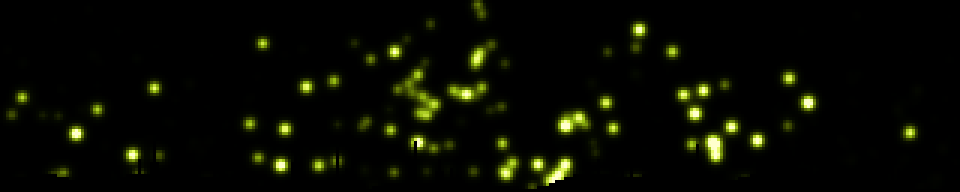
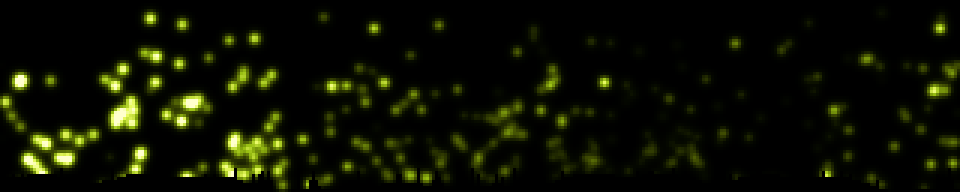
demos: fix the fireflies grass, and document the eight new effects
The grass silhouette was reported from the wall as an unexplained black mask.
It was about W/14 blades reaching a third of the way up the panel, so at 64
rows each was a two-pixel-wide, nineteen-pixel-tall black column -- which does
not read as a blade of grass, it reads as a fault in the display. Four times as
many at half the height gives a dense ragged fringe that does read, with the
cap dropped from a third of the panel to under a fifth. Median silhouette is
now 6 px against a 64 px panel.

Also adds gallery entries for laser, printer, knit, wheel, sunset, grove,
goldengate and karl, each recording the thing that is not obvious from the
code: why laser's cooling is a half-life in seconds rather than per frame, why
printer's spaghetti needs one clock shared by the strand, why grove samples
bark at arcsin of the normalised x, why goldengate's cable vertex sits on the
deck, and that broadcasting (H,W,1) against (H,W,3) is four times slower on
this hardware than doing the arithmetic three times.

diff --git a/demos/fireflies.py b/demos/fireflies.py
@@ -117,14 +117,21 @@ def _grass(W, H, rng):
             + 0.022 * H * np.sin(x * 0.091 + 2.1)
             + 0.015 * H * np.sin(x * 0.213 + 4.4))
     height = np.maximum(base, 1.0)
-    for _ in range(max(3, W // 14)):          # blades standing proud of the mass
+    # Blades standing proud of the mass. They have to be short and numerous.
+    # It was tried the other way first: about W/14 of them reaching a third of
+    # the way up the panel. At 64 rows a two-pixel-wide, nineteen-pixel-tall
+    # black column does not read as a blade of grass, it reads as a fault in
+    # the display -- which is exactly how it was reported from the wall. What
+    # does read is a dense ragged fringe, so there are now four times as many
+    # at half the height, capped under a fifth of the panel.
+    for _ in range(max(8, W // 4)):
         c = int(rng.integers(0, W))
-        tall = float(rng.uniform(0.14, 0.30)) * H
+        tall = float(rng.uniform(0.07, 0.15)) * H
         span = int(rng.integers(0, 2))
         for d in range(-span, span + 1):
             height[(c + d) % W] = max(height[(c + d) % W],
                                       tall * (1.0 - 0.35 * abs(d)))
-    return np.minimum(height, 0.34 * H).astype(np.int32)
+    return np.minimum(height, 0.19 * H).astype(np.int32)
 
 
 def build(args):

diff --git a/demos/README.md b/demos/README.md
@@ -109,6 +109,198 @@ the effect was cheap enough for hardware that could not multiply quickly.
 $ python3 rotozoom.py --texture xor --spin 0.35 --zoom-min 0.4
 ```
 
+### laser
+
+![laser](screenshots/laser.png)
+
+A laser cutter working through a job: a searing head tracing a vector path,
+the kerf cooling behind it, and the piece dropping out when the outline
+closes.
+
+One scalar heat field carries all of it — the head writes 1.0 along the arc it
+covered this frame, the field decays, and a black→red→orange→white ramp turns
+it into kerf, trail and head bloom together. Cooling is a half-life in
+*seconds* rather than a per-frame factor, so the trail is the same length in
+wall time whether the demo runs at 8 fps or 30.
+
+Paths are generated — gears, finger-jointed panels, filigree, slot lettering —
+cut holes first, outline last, with dark rapid moves between contours and the
+head stepping in arc length so corners do not speed up.
+
+Heat alone cannot tell what belongs to the part, since lettering cut ten
+seconds ago has already decayed out of the ramp, so a per-job cut mask relights
+the whole piece for the second it takes to fall.
+
+```console
+$ python3 laser.py --cool 2.0 --shapes gear,filigree
+```
+
+### printer
+
+![printer](screenshots/printer.png)
+
+A 3D printer seen side-on: gantry climbing a row per layer, nozzle glowing,
+part rising with visible infill — and sometimes failing into spaghetti.
+
+Silhouettes are functions of normalised coordinates rather than sprites, so
+they rasterise to whatever height the panel gives. Each layer is classified
+into perimeter, skin and infill, and only the infill stencil is drawn, which is
+why the cross-section is a lattice rather than a filled outline.
+
+Failure is two independent draws per print — whether, and then independently
+where, anywhere from 8% to 94% of the way up. Over 148 prints that gave 29.7%
+failures spread evenly across the height; an early failure leaves nothing but
+nest, a late one leaves a near-complete part with strands draped over it.
+
+The spaghetti took three attempts. The coil phase has to come off one clock
+shared by the whole strand: sampled per point it is confetti, and tied to
+emission rate it is a smooth rope. Only the shared clock gives loose curling
+filament.
+
+```console
+$ python3 printer.py --fail-rate 0.15 --speed 1.4
+```
+
+### knit
+
+![knit](screenshots/knit.png)
+
+An Aran cable sweater worked stitch by stitch. A knitting chart is already a
+pixel grid — colourwork and cable charts are low-resolution raster art — so
+stitches are 5x5 sprites blitted from source data, never drawn as curves.
+
+What sells it is that the work is visibly *happening*: the row advances a
+stitch at a time with jitter and hesitations, needles meet at the live stitch
+with loops hanging from them, and rows alternate direction the way hand
+knitting actually does. Cable crossings animate as the cable-needle move — the
+front pair lifts clear leaving a shadowed hole, the other pair slides through,
+the held pair drops into the vacated columns.
+
+The chart is generated: counting cable ropes to the left of a stitch identifies
+its rhombus, and the parity of that count is a checkerboard over the lattice,
+which is what alternates seed-filled diamonds with reverse stockinette.
+
+```console
+$ python3 knit.py --diamond 14 --stitch-rate 9
+```
+
+### wheel
+
+![wheel](screenshots/wheel.png)
+
+A bicycle drivetrain: three-cross laced wheel, chainring and cranks, chain
+tracking both sprockets. Gear ratio is derived rather than tuned — both
+sprockets share a chain pitch, so pitch radii follow from tooth counts and the
+ratio falls out.
+
+All spokes of a flange are tangent to one circle about the hub, so the tangent
+angle for a pixel at `(r, a)` is `a ∓ arccos(d/r)`. That is baked once; a frame
+reduces it modulo the spoke spacing, with no loop over spokes.
+
+The moiré is the point, not an artifact. Thin spokes crossing a discrete pixel
+grid genuinely strobe, and `--sweep` walks the rotation rate through the speeds
+where the pattern stalls, crawls and reverses. The rim reflector cannot alias,
+so it keeps sweeping while the spokes stand still — which is what makes the
+illusion read as an illusion rather than a paused demo.
+
+```console
+$ python3 wheel.py --speed 5.0 --sweep 0 --spokes 32
+```
+
+### sunset
+
+![sunset](screenshots/sunset.png)
+
+Driving west into a San Francisco sunset: sliced sun low over the Pacific,
+glitter on the water, road running to the vanishing point, Sutro Tower on a
+headland, Karl rolling in.
+
+The sun is sliced with horizontal gaps that widen downward — the retro
+treatment, and also the right call for a panel that bands in the dark end,
+since deliberate horizontal structure reads as intentional where accidental
+contouring does not.
+
+Two things that only showed up by looking: distance haze on a gentle ramp
+smeared the sky's reflection over the whole plane and the ocean read as wet
+tarmac, fixed by confining it to a hard band a few rows deep at the horizon;
+and a depth-scrolled water texture cannot win at this size — tight enough for
+foreground crests, it aliases to hash across the mid field — so the swell is
+one sine of each row's depth instead.
+
+```console
+$ python3 sunset.py --sun 0.8 --fog 0.4 --no-tower
+```
+
+### grove
+
+![grove](screenshots/grove.png)
+
+Drifting through a sequoia grove: trunks running off the top of the frame,
+warm shafts angling between them, fog in the gaps. You see a slice, not whole
+trees, which is what standing in a grove actually looks like.
+
+Bark is sampled at `arcsin(x/half)` — the true angle around the cylinder — so
+fibres crowd toward the silhouette and the trunk reads as round rather than as
+a flat bar. Depths are spaced geometrically, because linear spacing puts
+everything in the middle distance where the parallax rates are indistinguishable.
+
+Shafts carry a depth too, so occlusion is free: a nearer trunk blitted
+afterwards interrupts the beam, and that interruption is what makes the light
+feel three-dimensional. Nothing is blurred at run time — softness is baked into
+the sprites.
+
+```console
+$ python3 grove.py --speed 6 --shafts 3 --fog 1.4
+```
+
+### goldengate
+
+![goldengate](screenshots/goldengate.png)
+
+The bridge standing out of the fog. Geometry comes from the real thing in feet
+— 4200 ft main span, 526 ft of tower over a 220 ft deck — at one pixels-per-foot
+scale that happens to serve both axes of a 320x64 panel.
+
+The detail that stops it reading as a generic suspension bridge is that the
+main cable's vertex sits *on* the deck at midspan. Stepped Art Deco setbacks,
+portal braces whose openings shorten going up, and single-pixel suspenders
+every 6 px do the rest.
+
+Fog is two tileable noise tiles scrolled across each other, windowed by a
+rolling edge and a travelling bank envelope, with density tied to bank height
+so a high bank is a thick one. The level clamps at both ends rather than
+wandering mid-range — otherwise you get permanent haze instead of weather, and
+never the frame where only the tower tops show.
+
+```console
+$ python3 goldengate.py --time-of-day 6 --day-cycle 0 --fog 0.8
+```
+
+### karl
+
+![karl](screenshots/karl.png)
+
+Karl the Fog over the Twin Peaks ridgeline, swallowing Sutro Tower and letting
+it go again. The calmest thing here — a full cycle from clear to buried takes
+minutes.
+
+Two noise textures scrolled at different rates and weighted differently by row,
+with the detail layer's sample position displaced by the coarse layer. That
+domain warping is what makes it curl rather than slide, and it costs a gather
+rather than a simulation.
+
+Density comes off the clock as three sines at incommensurate periods, saturated
+at the ends so it *dwells* buried and then dwells clear instead of passing
+through both.
+
+Worth knowing if you touch the compositing: on this hardware, broadcasting an
+`(H,W,1)` against an `(H,W,3)` is about four times slower than doing the same
+arithmetic three times on contiguous planes.
+
+```console
+$ python3 karl.py --density 1.3 --speed 0.6 --no-tower
+```
+
 ### slime
 
 ![slime](screenshots/slime.png)
